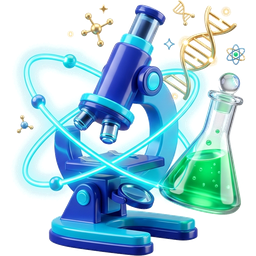
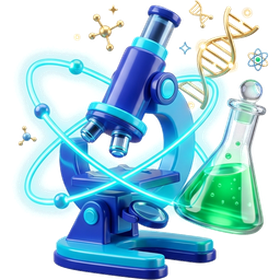
تحديث بطاقات المواد

diff --git a/js/media.js b/js/media.js
@@ -4,12 +4,12 @@
 
    🔒 القاعدة، وهي قابلة للفحص آلياً:
       لا يُبنى رابطُ ملفٍّ في أي موضعٍ آخر. للتحقق:
-        grep -rn "storage/v1\|firebasestorage\|r2\.dev" js/ --exclude=media.js
+        grep -rn "storage/v1\|firebasestorage\|r2\.dev\|media\.bayanclass" js/ --exclude=media.js
       لا مخرجات = الطبقة سليمة.
 
    📐 العقد: القاعدة تخزّن **مفتاحاً** لا عنواناً.
         audio/l12-k3j9fq.mp3      ← المستودع الافتراضي
-        fb:audio/l12-k3j9fq.mp3   ← مستودعٌ موسوم (حين يوجد)
+        r2:audio/l12-k3j9fq.mp3   ← مستودعٌ موسوم — Cloudflare R2 (b159)
         https://youtube.com/…     ← رابط خارجيّ — يُترك كما هو
       فنقل المستودع لا يمسّ صفاً واحداً في القاعدة، ولا ملفاً
       مُصدَّراً بـJSON. والعنوان يُشتقّ ولا يُخزَّن.
@@ -26,21 +26,33 @@ import { publicUrl } from './api.js';
    الوسم مفتاحٌ في هذا الكائن. وإضافة مستودعٍ جديد **سطرٌ واحد**
    هنا — لا تُمسّ mediaUrl ولا أي وحدةٍ أخرى.
 
-   وحين يُنقل الأرشيف يوماً، توسَم مفاتيحه بعبارة SQL واحدة:
-     update items set url = 'fb:' || url
-      where url is not null and url not like 'http%' and url not like '%:%';
+   وحين يُنقل ملفٌّ إلى مستودعٍ آخر، يُوسَم مفتاحُه **باسمه** لا بشرطٍ عامّ:
+     update items set url = 'r2:' || url where url = 'audio/l1-a1.mp3';
+   🔴 b159 · ولا «كلَّ ما لا يبدأ بـhttp» — وكان هذا نصَّ المثال هنا:
+      `items.url` يحمل أيضاً مساراتِ المحاكيات (`sims/…html`)، وهي ملفّاتٌ
+      في مستودع الموقع لا في مخزن ⇒ شرطٌ عامّ يَسِمها فتسقط صامتة (قِيس:
+      ثلاثةُ صفوف). والمفتاحُ يسكن أعمدةً عدّة (items.url · passages.media_url
+      · questions.audio_url · cards.audio · cards.image …) ⇒ الجردُ قبل الوسم.
    ─────────────────────────────────────────────────────────── */
 
 const HOME = {
   sb: publicUrl,                       // Supabase — الافتراضي · وهو وحده يستقبل الرفع
 
-  /* أمثلةٌ جاهزة، تُفعَّل يوم الحاجة لا قبلها:
+  /* 🆕 b159 · Cloudflare R2 — المخزن `bayan-media` على نطاقٍ مخصَّص.
+     📐 مسارُ الملفّ في المخزن هو المفتاحُ بلا وسمه:
+          r2:audio/l1-a1.mp3  ⇒  https://media.bayanclass.com/audio/l1-a1.mp3
+     🔑 يُقرأ منه ولا يُرفع إليه: الرفعُ من المتصفّح يقتضي رابطاً موقَّعاً
+        بمفتاحٍ سرّيّ لا يسكن المتصفّح ⇒ Worker أو Edge Function ⇒ تغييرٌ
+        بنيويّ مؤجَّل (STATE). فما فيه يرفعه المالكُ من لوحة Cloudflare.
+     ⚠ ولا r2.dev: عليه حدُّ استعمالٍ متغيّر ولا يصلح للإنتاج — وهو
+        معطَّلٌ في المخزن. والنطاقُ يكشف **المخزنَ كلَّه** لا مجلّداً منه
+        ⇒ لا يسكنه صوتُ طالبٍ ولا ما يُحرس؛ ذاك مخزنٌ خاصّ تحرسه RLS. */
+  r2: k => `https://media.bayanclass.com/${k}`,
+
+  /* مثالٌ جاهز، يُفعَّل يوم الحاجة لا قبلها:
   fb: k => `https://bayan-x.firebasestorage.app/o/${encodeURIComponent(k)}?alt=media`,
-  r2: k => `https://media.bayan-edu.com/${k}`,
      ⚠ Firebase يشترط ترميز الشرطة (/ → %2F)، وR2 وSupabase لا.
-        هذا الاختلاف يُدفن هنا فلا تعرفه بقية المنصة.
-     ⚠ وR2 يقتضي نطاقاً مخصَّصاً: النطاق المجاني r2.dev
-        عليه حدّ استعمالٍ متغيّر ولا يصلح للإنتاج.            */
+        هذا الاختلاف يُدفن هنا فلا تعرفه بقية المنصة.             */
 };
 
 /* المستودع الذي يستقبل الرفع الجديد. */

diff --git a/js/student.js b/js/student.js
@@ -143,9 +143,17 @@ export async function loadList(){
      داخل كلّ مجموعة لبدأت الثلاثُ بالدائرة نفسها في شاشةٍ واحدة. */
   const shapeOf = x => shape(S.subjects.indexOf(x));
 
-  /* مادة العلوم المتكاملة عينة تجريبية للشعار ثلاثي الأبعاد */
+  /* شعارات المواد والمهارات ثلاثية الأبعاد */
   const SUBJ_3D = {
-    'العلوم المتكاملة': 'img/subj_science.webp'
+    'العلوم المتكاملة':       'img/subj_science.webp',
+    'اللغة العربية':         'img/subj_arabic.webp',
+    'English':                 'img/subj_english.webp',
+    'الرياضيات':               'img/subj_math.webp',
+    'التاريخ':                 'img/subj_history.webp',
+    'الفلسفة والمنطق':         'img/subj_philosophy.webp',
+    'Reading Comprehension':   'img/subj_reading.webp',
+    'IELTS':                   'img/subj_ielts.webp',
+    'كيف أذاكر؟':              'img/subj_study.webp'
   };
 
   const face = (x, isPast = false, isMini = false) => {
@@ -191,6 +199,8 @@ export async function loadList(){
       ${tags ? `<div class="subj-b">${tags}</div>` : ''}
       ${is3D && pct === 0 && !empty && !x.needs_placement ?
         `<div class="subj-act-pill">${AR(x.lessons_total)} ${NW(x.lessons_total,'درس','درسان','دروس','درساً')} · ابدأ الآن <span class="subj-arrow">←</span></div>` :
+      is3D && x.needs_placement ?
+        `<div class="subj-act-pill">تحديد المستوى <span class="subj-arrow">←</span></div>` :
         `<div class="subj-m">${meta}</div>
          ${(x.needs_placement || empty || isPast) ? '' :
            `<div class="pbar"><div class="pfill" style="width:${pct}%"></div></div>`}`}

diff --git a/js/analytics.js b/js/analytics.js
@@ -49,7 +49,7 @@ import { app, head, esc, fmt, AR, errBox, nav, BUILD, scrollTop,
    شخّصنا في هذه الجلسة ثلاثَ مرّات منطقاً سليماً وسببُ العطل ملفٌّ
    لم يصل. ⇒ حين يختلف الختمان يُعلَن الاختلاف في الشاشة.
    ⚠ ويُرفع مع BUILD في كلّ نسخة — وإلّا صار إنذاراً كاذباً يُتجاهل. */
-const MOD = "b157";
+const MOD = "b159";
 
 const F = { level:null, subject:null, view:'list', search:'', opts:null };
 const M = { uid:null, forMe:false, subject:null, strand:null,

diff --git a/js/ui.js b/js/ui.js
@@ -13,7 +13,7 @@ import { renderMark, whenReady as avatarReady } from './avatar.js';
    والدمجُ مرّ بلا تعارضٍ **لأنّ الجانبين كتبا السطرَ نفسَه حرفاً** — وهو
    أخبثُ ما في التصادم: لا يشتكي. ⇒ هذه ترفعه، **فالختمُ يجيب «أيُّ شيفرةٍ
    يشغّلها المتصفّح»، وجوابان لسؤالٍ واحدٍ لا جواب.** */
-export const BUILD = "b157";
+export const BUILD = "b159";
 
 /* ── مراسي الصفحة ── */
 export const app = document.getElementById("app");

diff --git a/STATE.md b/STATE.md
@@ -99,6 +99,58 @@
 ```
 ### د · حيث انتهينا — ٢٠ أكتوبر ٢٠٢٦
 
+**🆕 ٢٠ أكتوبر — `b159`: مخزنٌ ثانٍ للوسائط — Cloudflare R2 على `media.bayanclass.com` (لا رقم SQL بعدُ):**
+
+- 🔑 **لماذا:** على خطّة Supabase المجانية حدُّ الملفّ ٥٠ م.ب، والتحميلُ غيرُ المخزَّن ٥ غ.ب في الشهر
+  — وفيديو الدرس ٩ (٣٧٫٧ م.ب) يستنفدها في نحو ١٣٠ مشاهدة. **وتحميلُ R2 مجّانيٌّ أبداً.**
+  والمكسبُ الحقيقيّ في الفيديو؛ والصوتُ (٨٫٣ م.ب) نُقل أوّلاً لأنّه أصغرُ تجربةٍ تامّةٍ للسلسلة.
+- ✅ **المخزن (بيد المالك في لوحة Cloudflare):** `bayan-media` · أوروبا الشرقية — **ولا تلميحَ
+  للشرق الأوسط في R2**، وتوصيةُ Cloudflare للخليج أوروبا · **Standard** (الحصّةُ المجانية لا تشمل
+  غيره) · النطاق `media.bayanclass.com` بـ**TLS ١٫٢** (١٫٠ و١٫١ أوقفتهما المتصفّحات، و١٫٣ يحجب
+  هواتفَ قديمة) · `r2.dev` **معطَّل**.
+- ✅ **① الصوتُ نُسخ:** الملفّات الخمسة في `audio/` بأسمائها حرفاً. **قِيست من المتصفّح على
+  النطاق:** ٢٠٠ · أحجامُها مطابقةٌ لـ`storage.objects` بالبايت · `audio/mpeg` · `Range` ⇒ ٢٠٦
+  (القفزُ داخل المقطع يعمل — وهو جوهرُ تمرين الاستماع).
+- ✅ **② الواجهةُ تعرف `r2:`:** سطرُ `HOME.r2` في `media.js`. **ولا يراه طالبٌ بعد** — لا مفتاحَ في
+  القاعدة يحمل `r2:`. 🧪 **عشرُ حالاتٍ على الوحدة الحقيقية ببديلٍ لـ`api.js`**، وأُعيدت على النسخة
+  القديمة فسقطت حالتا `r2:` (تعودان `null`) — **وهو بعينه ما كان سيسمعه الطالب لو سبق ③ ②.**
+  والثابت ② (`grep` في رأس `media.js`) زاد `media\.bayanclass` ⇒ لا مخرجات.
+- 🔴 **فخٌّ في تعليق `media.js` أُصلح:** جملةُ الوسم المقترحة فيه «كلُّ ما لا يبدأ بـ`http`»
+  **كانت تَسِم مساراتِ المحاكيات الثلاث** (`items` ١٤ · ١٥ · ١٧ — `sims/…html`) فتسقط صامتة.
+  ⇒ **الوسمُ بالاسم لا بشرط، والجردُ قبله.**
+- 🔑 **قرار: ما يسكن أين.** عامٌّ ثقيل (فيديو الدرس · صوت الشرح) ⇒ **R2**. خاصٌّ خفيف (تسجيلُ
+  الطالب · صوتُه في المحادثة) ⇒ **مخزنٌ خاصّ في Supabase تحرسه RLS**. **فالنطاقُ يكشف المخزنَ
+  كلَّه لا مجلّداً منه** — وصوتُ قاصرٍ لا يسكن خلف بابٍ يُفتح بالتخمين. وعائقُ التسجيلات
+  سياسةٌ لا تقنية (⑨: من يسمع · متى يُحذف · إذنُ وليّ الأمر).
+- 🔑 **والرفعُ من المحرّر يبقى إلى Supabase** (`DEFAULT='sb'`). الرفعُ إلى R2 من المتصفّح يقتضي
+  رابطاً موقَّعاً بمفتاحٍ سرّيّ ⇒ Worker أو Edge Function ⇒ **اقتراحٌ بنيويّ للنقاش، لا تنفيذ.**
+  فللصوت بيتان بقصد، والوسمُ يقول أين.
+- ⚠ **فجوتان تُكتبان:** ① `openItem` يفتح `i.url` **خاماً** في تبويب ⇒ مفتاحُ `r2:` على مصدر
+  فيديو يُفتح رابطاً مكسوراً. **يلزم مشغّلُ فيديو داخل الدرس قبل أوّل فيديو** — ومعه الإتمامُ عند
+  الانتهاء لا عند الفتح («سُجّل اطّلاعك» اليوم يُسجَّل بالفتح). ② حارسُ `import_cards` يقبل
+  `مخزن/مسار` أو `https` وحدهما ⇒ **يردّ `r2:`** — لا يضرّ اليوم (لا بطاقةَ بصوتٍ أو صورة).
+- 🟡 **دَين:** خمسُ إحالاتٍ إلى ملفّاتٍ لا وجود لها — النصوص ٢٠ · ٢٦ · ٢٨ · ٢٩ وصفُّ
+  `passage_history` ١ — بقايا رفعٍ متكرّرٍ لصوت الاختبار ١٢، **ولا سؤالَ مرتبطٌ بأيٍّ منها**.
+- ⚠ **محتوى لا تقنية:** غلافُ «Vocabulary Masterclass» (فيديو الدرس ٩) **هرمٌ مدرَّجٌ من المايا
+  لا هرمٌ مصريّ** — في درس الاعتزاز بمصر. والقرارُ للمالك قبل رفعه. والفيديوهان جاهزان تقنياً:
+  H.264 + AAC بدقّة ٧٢٠، وفهرسُهما في أوّل الملفّ (يبدأ فوراً ويُقفز فيه). ومفتاحاهما محجوزان:
+  `video/l9-cq7qng.mp4` · `video/l9-rj81ri.mp4`.
+- ⬜ **الباقي بترتيبه:** ③ ملفُّ SQL يَسِم **المفاتيحَ الثمانية بأسمائها** (المصدر ٧ · النصوص
+  ١٦ · ٣٠ · ٣٣ · ٣٥ · ٣٧ · السؤالان ٨٠ · ٢٢٣) بتجربةٍ جافّةٍ أوّلاً — **وبعد نشر ② لا قبله** ·
+  ④ ملفّاتُ Supabase تبقى احتياطاً ولا تُحذف إلا بإذن · ثمّ مشغّلُ الفيديو.
+- 🔒 **استواء الختمين:** `BUILD` و`MOD` بلغا `b159`. **و`b158` محجوزٌ لعملٍ قائمٍ على جهاز المالك
+  لم يُرفع بعد** (البطاقات ثلاثية الأبعاد) — `origin/main` عند `b157`، فلم يُؤخذ.
+
+**🆕 ٢٠ أكتوبر — `b158`: بطاقات ثلاثية الأبعاد لكافة مواد ومهارات شاشة الطالب (لا رقم SQL):**
+
+- 🎨 **المطلوب (المالك):** تعميم التصميم المجسم ثلاثي الأبعاد على جميع بطاقات المواد والمهارات في شاشة الطالب مع التأكد التام من دقة الصور ووضوح تعبيرها وجودتها.
+- ✅ **الشعارات ثلاثية الأبعاد (٩ مجسمات في `img/` بنسخ WebP وPNG):**
+  - مواد الصف: `العلوم المتكاملة` (مجهر وذرة ودورق) · `اللغة العربية` (تصميم مجسم عالي النقاء مستلهم من هوية بيان) · `English` (أحرف A-B-C مجسمة وبالون حوار زجاجي ومجسم الكرة الأرضية) · `الرياضيات` (مجسم هندسي بلوري وفرجار ومسطرة ورموز رياضية) · `التاريخ` (عمود روماني وهرم ذهبي وبردية قديمة) · `الفلسفة والمنطق` (مفكر كريستالي وتروس ذهبية وشعلة الحكمة).
+  - المهارات: `Reading Comprehension` (كتاب مفتوح وعدسة مكبرة تكشف رسومات مشعة) · `IELTS` (قبعة تخرج بريطانية وشارة ختم ذهبية ودبلوم معتمد) · `كيف أذاكر؟` (تصميم مجسم متناسق لأدوات التنظيم وإدارة الوقت).
+- ⚡ **الضغط والأداء:** ضغط كافة الأيقونات بنسبة ٥٥٪ مع الحفاظ على دقة Retina العالية (نزل إجمالي وزن الأيقونات التسع مجتمعة من ٥٥٨ ك.ب إلى ٢٥٣ ك.ب فقط).
+- ✅ **التفاعل والشبكة في `js/student.js`:** بطاقات موحدة `.subj.is-3d`، وأزرار إجراء حية (`تحديد المستوى ←` للمهارات، و`ابدأ الآن ←` للمواد)، وتأثيرات رفع خفيفة عند التحليق.
+- 🔒 **استواء الختمين:** `BUILD` و`MOD` بلغا `b159`.
+
 **🆕 ٢٠ أكتوبر — `b157`: بطاقة مادة العلوم المتكاملة ثلاثية الأبعاد (عينة حية) (لا رقم SQL):**
 
 - 🎨 **المطلوب (المالك):** تنفيذ عينة حية للمادة الواحدة «العلوم المتكاملة» فقط في واجهة الطالب، دون المساس بالمواد الخمس الأخرى، لاختبار الشعار المجسم ثلاثي الأبعاد والتحسين التفاعلي على الطبيعة.
